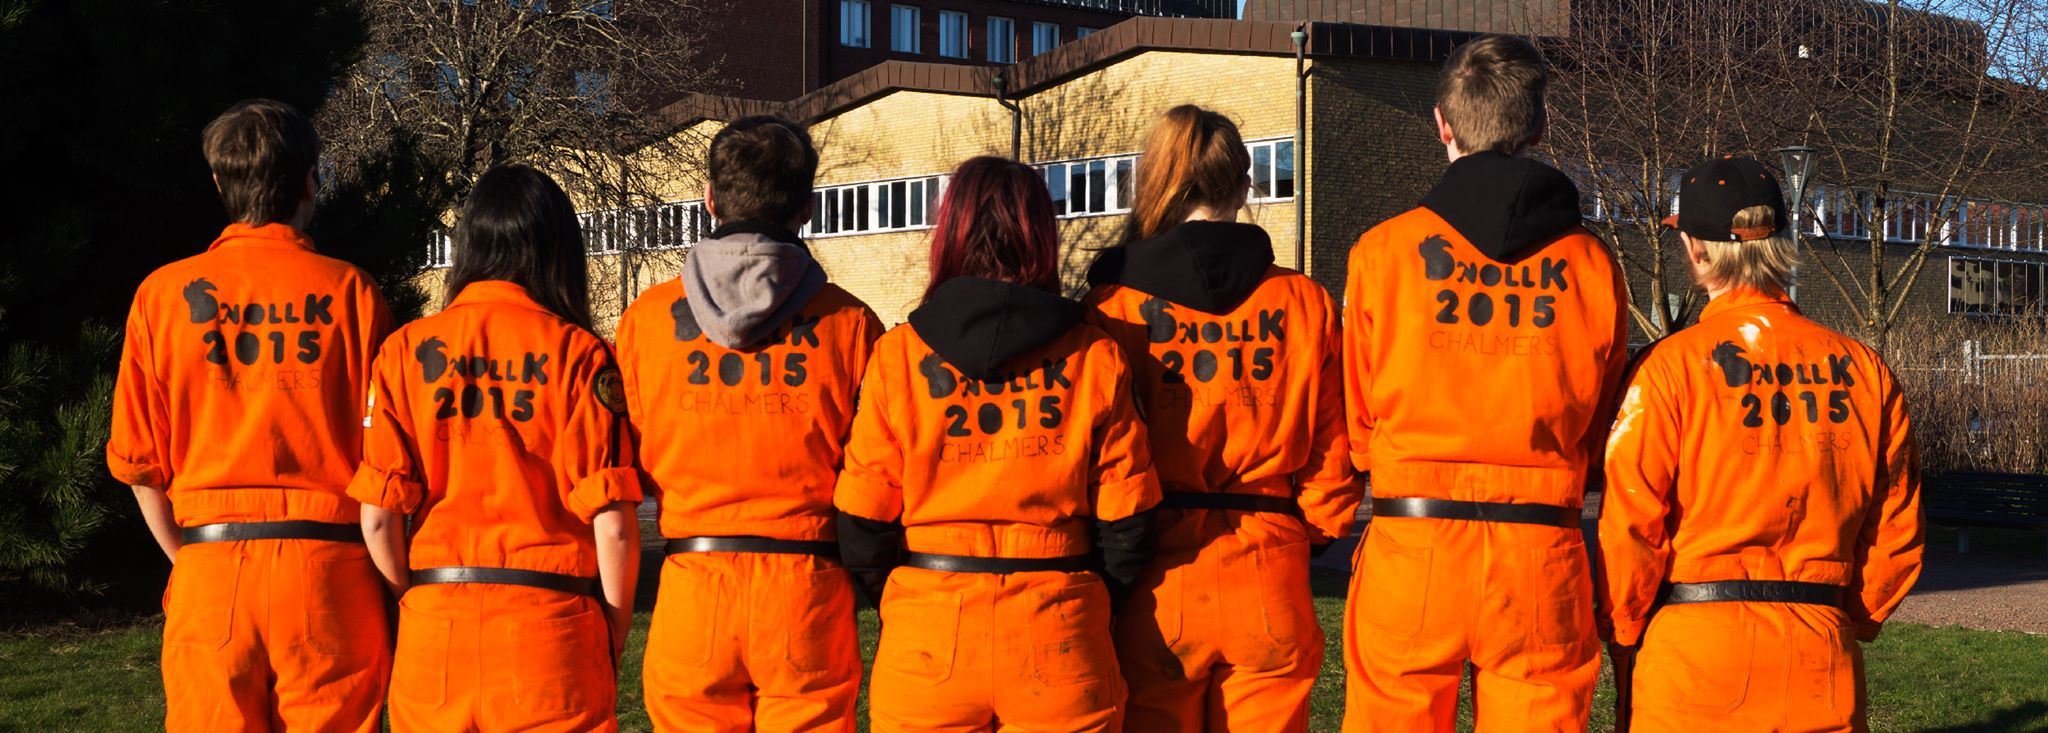
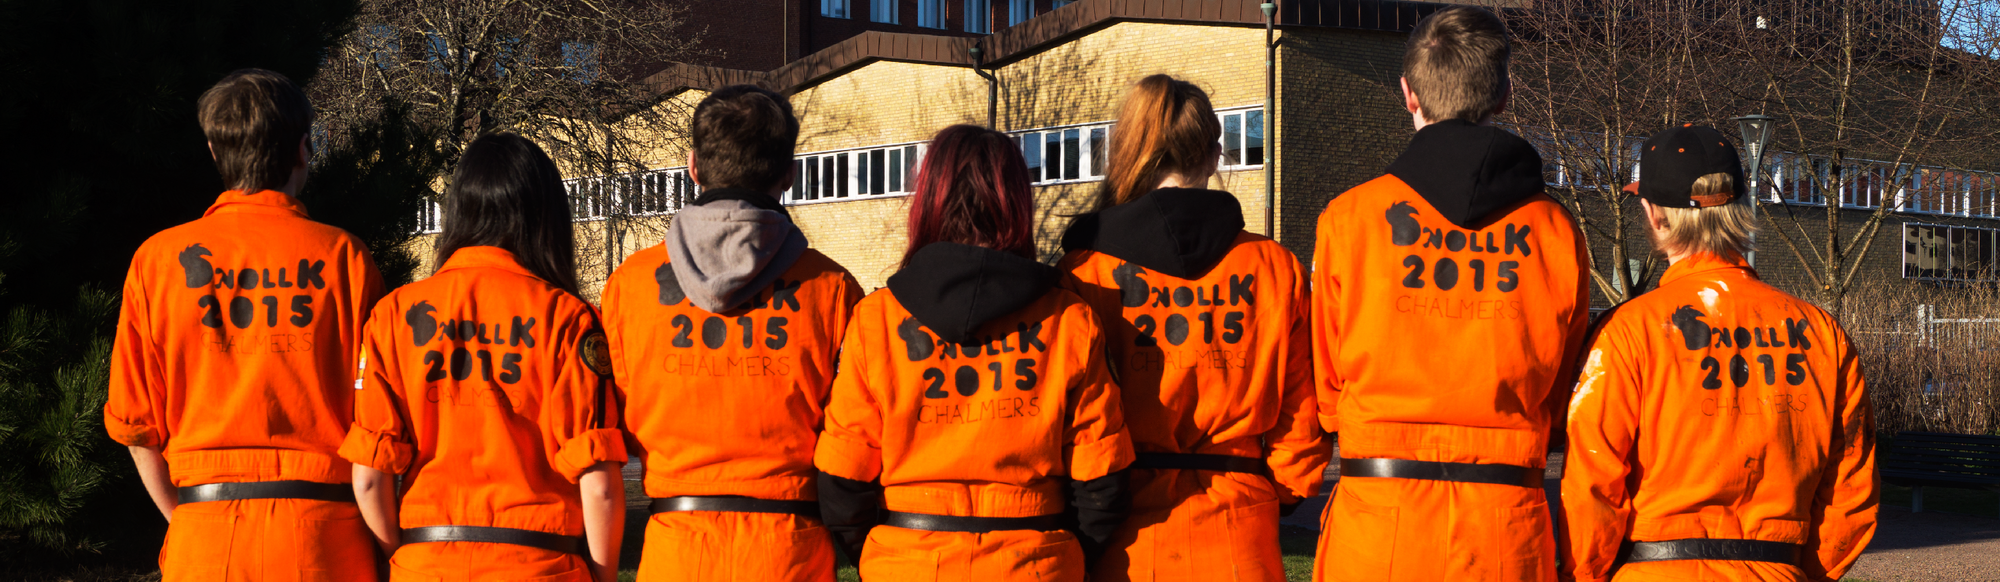
Header card now fills out full screen width.
Also added new header image.

diff --git a/static/dnollkse/css/layout.css b/static/dnollkse/css/layout.css
@@ -141,6 +141,8 @@ body,
     font-weight: 600;
 
     margin: 0 auto;
+
+    width: 100%;
 }
 
 .header .logo {
@@ -159,12 +161,17 @@ body,
 @media (min-width: 400px) {
     .header .logo {
         padding: 0.5rem;
+        z-index: 100;
+        position: relative;
     }
 }
 
 @media (min-width: 550px) {
     .header .image {
         display: inline-block;
+        z-index: 10;
+        margin-top: -5rem;
+        position: relative;
     }
 }
 
